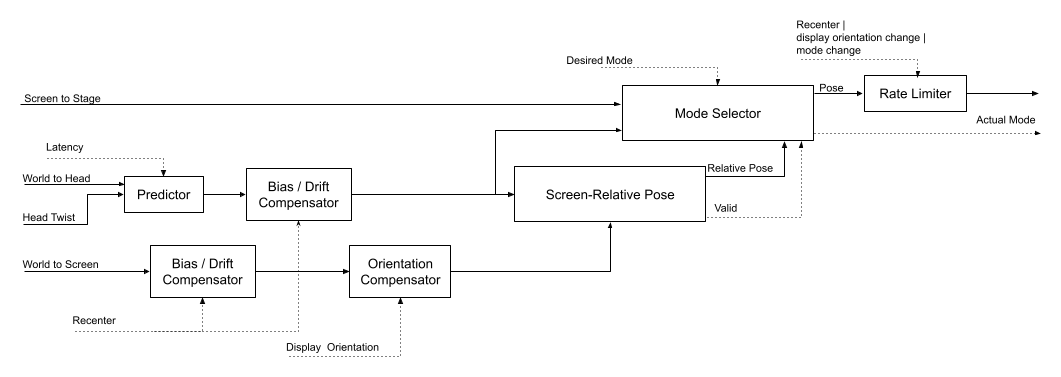
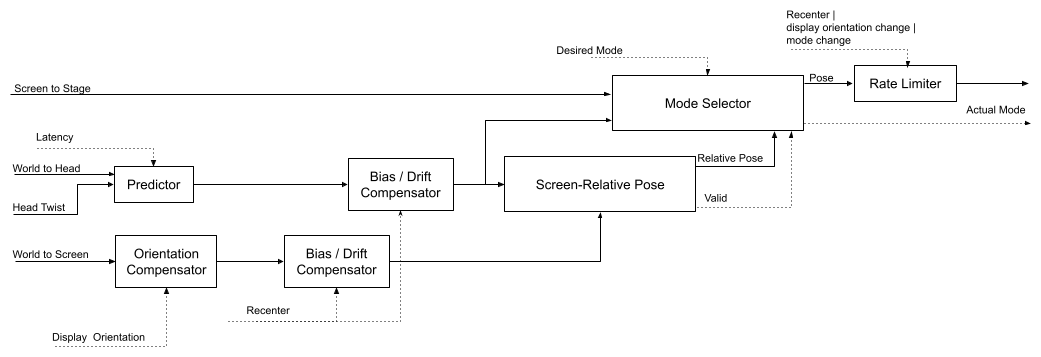
Fix display orientation handling
- Apply the orientation compensator before the filter. Otherwise, we
  won't tend to identity, but rather to a rotated frame, which is
  incorrect.
- Enable rate limiting when orientation changes, but only when a new
  world-to-screen pose arrives. This makes sure that rate limiting is
  applied at the point of discontinuity regardless of the order of
  operations.

Test: atest --host libheadtracking-test
Bug: 188502620

diff --git a/media/libheadtracking/HeadTrackingProcessor.cpp b/media/libheadtracking/HeadTrackingProcessor.cpp
@@ -57,7 +57,14 @@ class HeadTrackingProcessorImpl : public HeadTrackingProcessor {
     }
 
     void setWorldToScreenPose(int64_t timestamp, const Pose3f& worldToScreen) override {
-        mScreenPoseDriftCompensator.setInput(timestamp, worldToScreen);
+        if (mPhysicalToLogicalAngle != mPendingPhysicalToLogicalAngle) {
+            // We're introducing an artificial discontinuity. Enable the rate limiter.
+            mRateLimiter.enable();
+            mPhysicalToLogicalAngle = mPendingPhysicalToLogicalAngle;
+        }
+
+        mScreenPoseDriftCompensator.setInput(
+                timestamp, worldToScreen * Pose3f(rotateY(-mPhysicalToLogicalAngle)));
         mWorldToScreenTimestamp = timestamp;
     }
 
@@ -66,10 +73,7 @@ class HeadTrackingProcessorImpl : public HeadTrackingProcessor {
     }
 
     void setDisplayOrientation(float physicalToLogicalAngle) override {
-        if (mPhysicalToLogicalAngle != physicalToLogicalAngle) {
-            mRateLimiter.enable();
-        }
-        mPhysicalToLogicalAngle = physicalToLogicalAngle;
+        mPendingPhysicalToLogicalAngle = physicalToLogicalAngle;
     }
 
     void calculate(int64_t timestamp) override {
@@ -80,8 +84,7 @@ class HeadTrackingProcessorImpl : public HeadTrackingProcessor {
         }
 
         if (mWorldToScreenTimestamp.has_value()) {
-            const Pose3f worldToLogicalScreen = mScreenPoseDriftCompensator.getOutput() *
-                                                Pose3f(rotateY(-mPhysicalToLogicalAngle));
+            const Pose3f worldToLogicalScreen = mScreenPoseDriftCompensator.getOutput();
             mScreenHeadFusion.setWorldToScreenPose(mWorldToScreenTimestamp.value(),
                                                    worldToLogicalScreen);
         }
@@ -129,6 +132,9 @@ class HeadTrackingProcessorImpl : public HeadTrackingProcessor {
   private:
     const Options mOptions;
     float mPhysicalToLogicalAngle = 0;
+    // We store the physical to logical angle as "pending" until the next world-to-screen sample it
+    // applies to arrives.
+    float mPendingPhysicalToLogicalAngle = 0;
     std::optional<int64_t> mWorldToHeadTimestamp;
     std::optional<int64_t> mWorldToScreenTimestamp;
     Pose3f mHeadToStagePose;

diff --git a/media/libheadtracking/HeadTrackingProcessor-test.cpp b/media/libheadtracking/HeadTrackingProcessor-test.cpp
@@ -53,10 +53,10 @@ TEST(HeadTrackingProcessor, BasicComposition) {
     processor->setWorldToHeadPose(0, Pose3f(), Twist3f());
     processor->setWorldToScreenPose(0, Pose3f());
 
+    processor->setDisplayOrientation(physicalToLogical);
     processor->setWorldToHeadPose(0, worldToHead, Twist3f());
     processor->setWorldToScreenPose(0, worldToScreen);
     processor->setScreenToStagePose(screenToStage);
-    processor->setDisplayOrientation(physicalToLogical);
     processor->calculate(0);
     ASSERT_EQ(processor->getActualMode(), HeadTrackingMode::SCREEN_RELATIVE);
     EXPECT_EQ(processor->getHeadToStagePose(), worldToHead.inverse() * worldToScreen *
